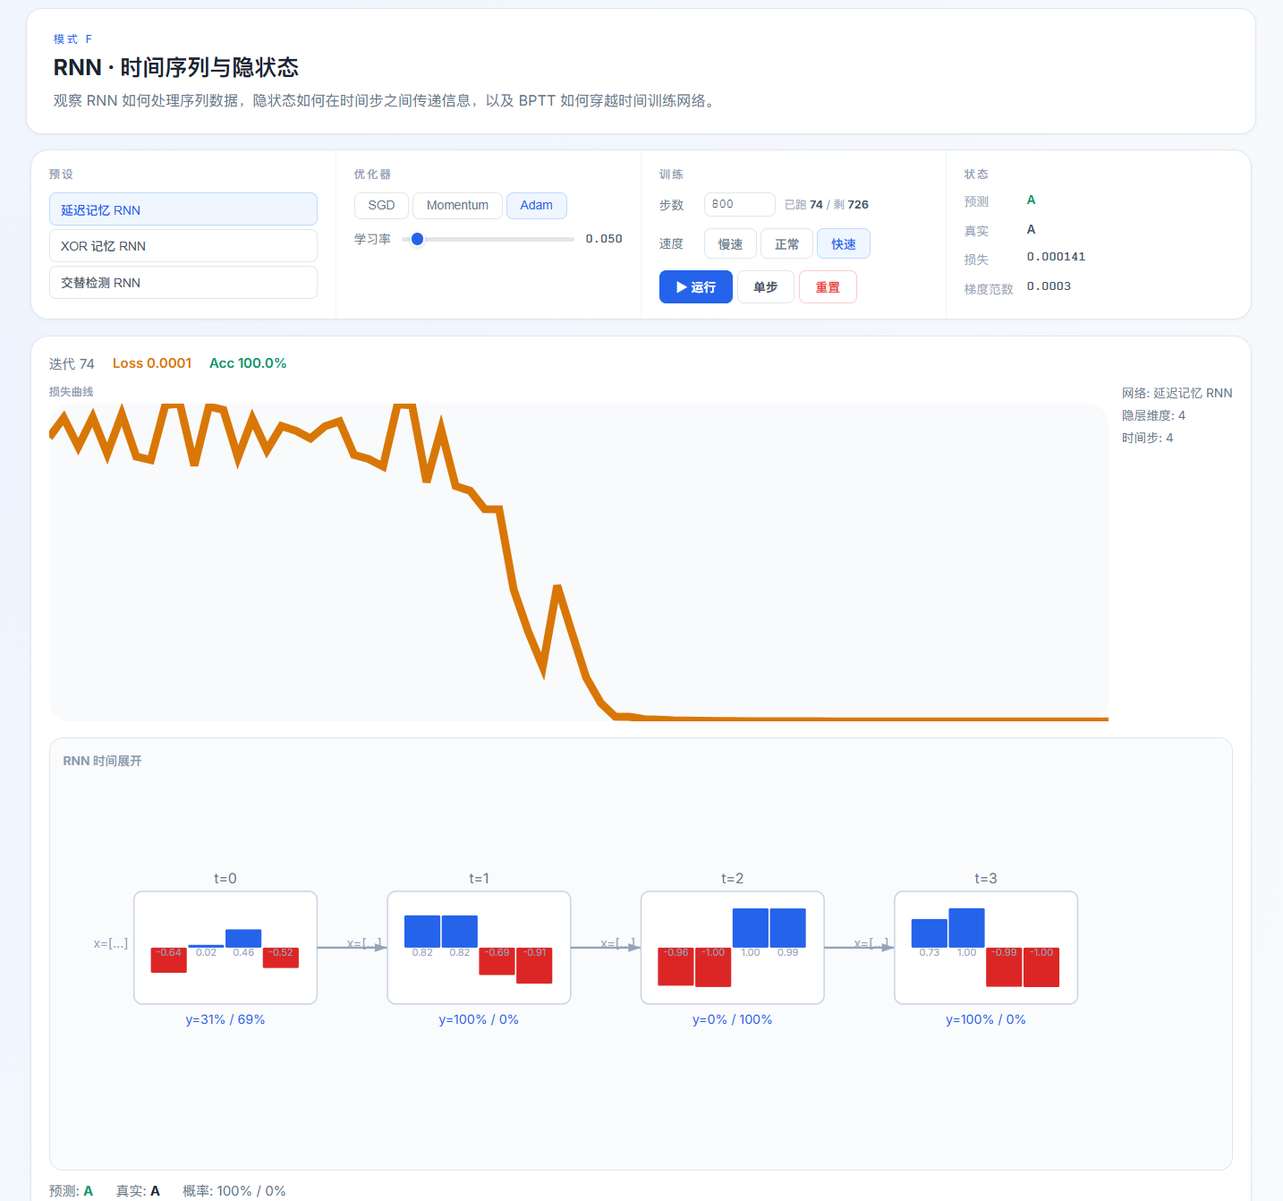
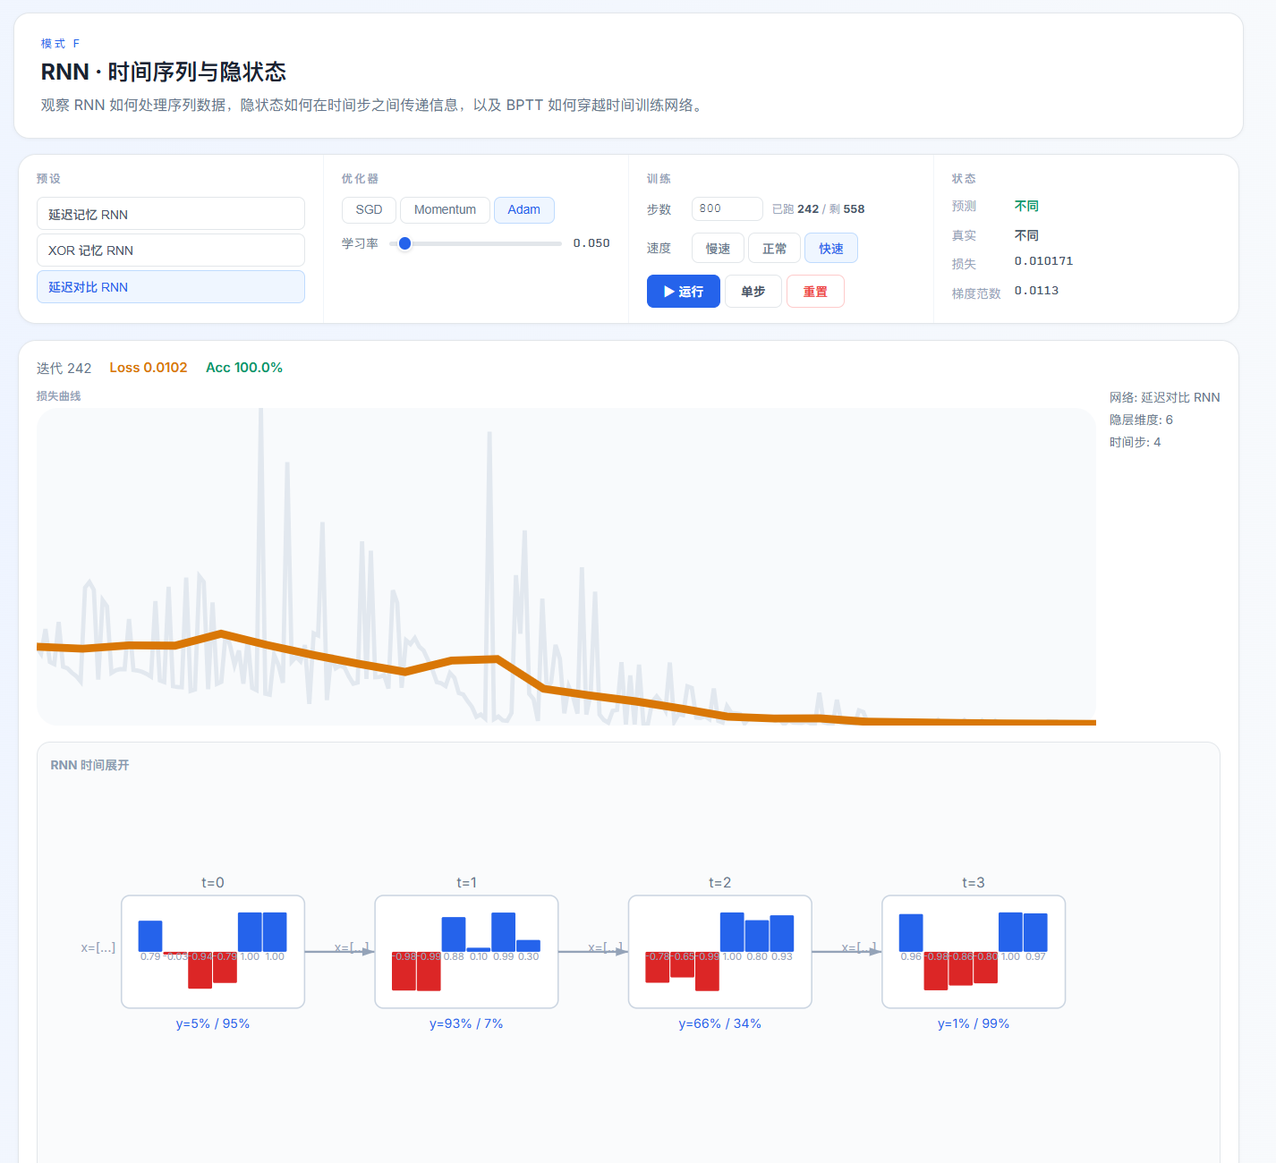
修改了modelf的一些bug

diff --git a/frontend/src/app/modes/mode-f/explainer/services/mode-f-assets.service.ts b/frontend/src/app/modes/mode-f/explainer/services/mode-f-assets.service.ts
@@ -5,43 +5,44 @@ function mkSample(id: number, inputs: number[][], label: number, labelName?: str
   return { id, inputs, label, labelName };
 }
 
+/** One-hot encoding: 1 → [1,0], 0 → [0,1] */
+function enc(v: number): number[] { return v ? [1, 0] : [0, 1]; }
+const BLANK = [0, 0];
+
 // --- synthetic datasets ---
 
+/** Remember a single bit across 3 blank steps */
 function echoDataset(n: number): ModeFSequenceSample[] {
   const samples: ModeFSequenceSample[] = [];
   for (let i = 0; i < n; i++) {
     const v = Math.random() > 0.5 ? 1 : 0;
-    const seq = [[v, 0], [0, 0], [0, 0], [0, 0]];
-    // Task: after seeing input [v,0] at step 0, output class v at step 3
-    // 3 zeros then output. Class = the value seen at step 0.
-    const label = v;
-    samples.push(mkSample(i, seq, label, label === 0 ? 'A' : 'B'));
+    const seq = [enc(v), BLANK, BLANK, BLANK];
+    samples.push(mkSample(i, seq, v, v === 0 ? 'A' : 'B'));
   }
   return samples;
 }
 
-function memoryDataset(n: number): ModeFSequenceSample[] {
+/** XOR of two bits given at adjacent steps */
+function xorMemoryDataset(n: number): ModeFSequenceSample[] {
   const samples: ModeFSequenceSample[] = [];
   for (let i = 0; i < n; i++) {
     const a = Math.random() > 0.5 ? 1 : 0;
     const b = Math.random() > 0.5 ? 1 : 0;
-    const seq = [[a, b], [0, 0], [0, 0], [0, 0]];
-    // Task: classify based on both values seen: a XOR b
-    const label = (a ^ b);
-    samples.push(mkSample(i, seq, label, label === 0 ? '相同' : '不同'));
+    const seq = [enc(a), enc(b), BLANK, BLANK];
+    samples.push(mkSample(i, seq, a ^ b, (a ^ b) === 0 ? '相同' : '不同'));
   }
   return samples;
 }
 
-function alternationDataset(n: number): ModeFSequenceSample[] {
+/** Compare first and last bit across two blank steps — harder than echo */
+function delayMatchDataset(n: number): ModeFSequenceSample[] {
   const samples: ModeFSequenceSample[] = [];
   for (let i = 0; i < n; i++) {
-    const v1 = Math.random() > 0.5 ? 1 : 0;
-    const v2 = Math.random() > 0.5 ? 1 : 0;
-    const seq = [[v1, 0], [v2, 0], [0, 0], [0, 0]];
-    // Task: detect if sequence alternated. 1 if v1 != v2, 0 if v1 == v2
-    const label = v1 !== v2 ? 1 : 0;
-    samples.push(mkSample(i, seq, label, label === 0 ? '相同' : '交替'));
+    const a = Math.random() > 0.5 ? 1 : 0;
+    const b = Math.random() > 0.5 ? 1 : 0;
+    const seq = [enc(a), BLANK, BLANK, enc(b)];
+    const label = a === b ? 1 : 0; // 1 = same, 0 = different
+    samples.push(mkSample(i, seq, label, label === 1 ? '相同' : '不同'));
   }
   return samples;
 }
@@ -49,14 +50,41 @@ function alternationDataset(n: number): ModeFSequenceSample[] {
 @Injectable({ providedIn: 'root' })
 export class ModeFAssetsService {
   readonly datasetPresets: ModeFDatasetPreset[] = [
-    { id: 'echo', name: '延迟记忆', description: '看到第一个输入后，经过几步延迟再输出分类。测试 RNN 能否"记住"早期信息。', samples: echoDataset(200), inputDim: 2, hiddenDim: 4, outputDim: 2, classLabels: ['A', 'B'], maxTimeSteps: 4 },
-    { id: 'memory', name: 'XOR 记忆', description: '前两步各给一个 bit，最后一步判断两个 bit 是否相同（等价于 XOR）', samples: memoryDataset(200), inputDim: 2, hiddenDim: 4, outputDim: 2, classLabels: ['相同', '不同'], maxTimeSteps: 4 },
-    { id: 'alternation', name: '交替检测', description: '前两步各给一个 bit，检测序列是否发生了交替。需要 RNN 比较相邻时间步的输入。', samples: alternationDataset(200), inputDim: 2, hiddenDim: 6, outputDim: 2, classLabels: ['相同', '交替'], maxTimeSteps: 4 },
+    {
+      id: 'echo', name: '延迟记忆',
+      description: '第一步给出一个 bit，经过三步空白后在最后一步输出分类。测试 RNN 能否将信息跨时间步保留。',
+      samples: echoDataset(200), inputDim: 2, hiddenDim: 4, outputDim: 2,
+      classLabels: ['A (bit=0)', 'B (bit=1)'], maxTimeSteps: 4,
+    },
+    {
+      id: 'memory', name: 'XOR 记忆',
+      description: '前两步各给一个 bit，后两步空白，最后一步判断两个 bit 是否相同。测试 RNN 的记忆与组合判断能力。',
+      samples: xorMemoryDataset(200), inputDim: 2, hiddenDim: 8, outputDim: 2,
+      classLabels: ['相同', '不同'], maxTimeSteps: 4,
+    },
+    {
+      id: 'delay-match', name: '延迟对比',
+      description: '第一步和第四步各给一个 bit，中间两步空白。判断首尾 bit 是否相同。需要跨两步记忆首个 bit 再与末尾比较，难度最高。',
+      samples: delayMatchDataset(200), inputDim: 2, hiddenDim: 6, outputDim: 2,
+      classLabels: ['相同', '不同'], maxTimeSteps: 4,
+    },
   ];
 
   readonly networkPresets: ModeFNetworkPreset[] = [
-    { id: 'echo-simple', name: '延迟记忆 RNN', description: '小 RNN 学习延迟记忆', cellType: 'tanh', inputDim: 2, hiddenDim: 4, outputDim: 2, datasetId: 'echo' },
-    { id: 'memory-rnn', name: 'XOR 记忆 RNN', description: 'RNN 学习 XOR 记忆', cellType: 'tanh', inputDim: 2, hiddenDim: 4, outputDim: 2, datasetId: 'memory' },
-    { id: 'alternation-rnn', name: '交替检测 RNN', description: 'RNN 检测序列交替', cellType: 'tanh', inputDim: 2, hiddenDim: 6, outputDim: 2, datasetId: 'alternation' },
+    {
+      id: 'echo-simple', name: '延迟记忆 RNN',
+      description: '小 RNN 学习延迟记忆', cellType: 'tanh',
+      inputDim: 2, hiddenDim: 4, outputDim: 2, datasetId: 'echo',
+    },
+    {
+      id: 'memory-rnn', name: 'XOR 记忆 RNN',
+      description: 'RNN 学习 XOR 记忆', cellType: 'tanh',
+      inputDim: 2, hiddenDim: 8, outputDim: 2, datasetId: 'memory',
+    },
+    {
+      id: 'delay-match-rnn', name: '延迟对比 RNN',
+      description: 'RNN 学习延迟对比', cellType: 'tanh',
+      inputDim: 2, hiddenDim: 6, outputDim: 2, datasetId: 'delay-match',
+    },
   ];
 }

diff --git a/frontend/src/app/shared/teaching/teaching-glossary.ts b/frontend/src/app/shared/teaching/teaching-glossary.ts
@@ -5,7 +5,7 @@ export interface TeachingTerm {
   category: string;
   summary: string;
   details: string[];
-  mode: 'A' | 'B' | 'C' | 'D' | 'E' | 'F';
+  mode: 'A' | 'B' | 'C' | 'D' | 'E' | 'F' | 'E F';
 }
 
 export const MODE_A_TEACHING_TERMS: TeachingTerm[] = [
@@ -604,7 +604,7 @@ export const MODE_E_TEACHING_TERMS: TeachingTerm[] = [
       '它的更新规则简单直接，适合教学中展示”梯度如何驱动参数变化”的基本过程。',
       '缺点是对学习率更敏感，在复杂损失面上也可能收敛较慢。'
     ],
-    mode: 'E'
+    mode: 'E F'
   },
   {
     id: 'optimizer-momentum',
@@ -616,7 +616,7 @@ export const MODE_E_TEACHING_TERMS: TeachingTerm[] = [
       '它能减轻来回震荡的问题，并在较平坦区域保持前进速度。',
       '教学上常把它类比成滚动的小球，帮助理解”为什么它比纯 SGD 更稳”。'
     ],
-    mode: 'E'
+    mode: 'E F'
   },
   {
     id: 'optimizer-adam',
@@ -628,7 +628,7 @@ export const MODE_E_TEACHING_TERMS: TeachingTerm[] = [
       '它会根据一阶和二阶统计量自动调节参数更新尺度，因此通常收敛更快。',
       '教学上适合和 SGD、Momentum 做对比，观察不同优化器对训练曲线的影响。'
     ],
-    mode: 'E'
+    mode: 'E F'
   },
   {
     id: 'backpropagation',
@@ -761,42 +761,6 @@ export const MODE_F_TEACHING_TERMS: TeachingTerm[] = [
     mode: 'F'
   },
   {
-    id: 'optimizer-sgd',
-    title: 'SGD 优化器',
-    aliases: ['SGD', '随机梯度下降'],
-    category: '序列模型',
-    summary: 'SGD 是最基础的优化器，直接沿负梯度方向更新参数。',
-    details: [
-      '在 RNN 训练中，SGD 对学习率更敏感，可能因梯度范数波动而震荡。',
-      '对比 SGD、Momentum、Adam 在 RNN 任务上的表现，可以直观理解优化器的差异。'
-    ],
-    mode: 'F'
-  },
-  {
-    id: 'optimizer-momentum',
-    title: 'Momentum 优化器',
-    aliases: ['Momentum', '动量优化'],
-    category: '序列模型',
-    summary: 'Momentum 在 SGD 基础上累积历史更新方向，帮助参数在梯度震荡的维度上更稳定地前进。',
-    details: [
-      '在 BPTT 中梯度在各时间步之间可能波动较大，Momentum 的惯性有助于平滑更新。',
-      '可以对比观察 Momentum 和纯 SGD 在相同 RNN 任务上的损失曲线差异。'
-    ],
-    mode: 'F'
-  },
-  {
-    id: 'optimizer-adam',
-    title: 'Adam 优化器',
-    aliases: ['Adam', '自适应优化器'],
-    category: '序列模型',
-    summary: 'Adam 结合动量和自适应学习率，对每个参数维护一阶和二阶矩估计，通常收敛更快更稳。',
-    details: [
-      'Adam 对 RNN 中可能出现的梯度范数波动有天然的适应能力，自动调节每个参数的步长。',
-      '在 Mode F 中，可以切换 Adam 观察训练曲线和最终准确率的变化。'
-    ],
-    mode: 'F'
-  },
-  {
     id: 'sequence-classification',
     title: '序列分类',
     aliases: ['sequence classification', '时序分类'],
@@ -804,8 +768,9 @@ export const MODE_F_TEACHING_TERMS: TeachingTerm[] = [
     summary: '序列分类任务要求模型在看完整个输入序列后，判断序列属于哪一类别。',
     details: [
       '在 Mode F 中，RNN 在最后一个时间步输出类别概率，用 softmax + 交叉熵计算损失。',
-      '例如"延迟记忆"任务需要模型记住第 0 步看到的 bit，经过几步延迟后正确分类。',
-      '这考验 RNN 的长期记忆能力——早期的关键信息能否被隐状态保留到最后。'
+      '延迟记忆：记住第一步的值，经历几步空白后输出分类——考察 RNN 的长期记忆',
+      'XOR 记忆：前两步各给一个 bit，判断两个 bit 是否相同——考察组合判断',
+      '延迟对比：第一步和第四步各给一个 bit，判断首尾是否相同——需要跨两步记忆，难度最高'
     ],
     mode: 'F'
   },

diff --git a/frontend/src/app/modes/mode-f/explainer/components/overview/mode-f-overview.component.ts b/frontend/src/app/modes/mode-f/explainer/components/overview/mode-f-overview.component.ts
@@ -1,12 +1,13 @@
 import { Component, computed } from '@angular/core';
 import { CommonModule } from '@angular/common';
+import { TeachingTermDirective } from '@shared/teaching/teaching-term.directive';
 import { ModeFStateService } from '../../services/mode-f-state.service';
 
 const CELL_W = 130, CELL_H = 80, GAP = 50, PAD = 50;
 
 @Component({
   selector: 'app-mode-f-overview',
-  imports: [CommonModule],
+  imports: [CommonModule, TeachingTermDirective],
   templateUrl: './mode-f-overview.component.html',
   styleUrl: './mode-f-overview.component.css',
 })
@@ -27,8 +28,20 @@ export class ModeFOverviewComponent {
   readonly svgW = computed(() => Math.max(this.timeSteps() * (CELL_W + GAP) + PAD * 2, 600));
   readonly svgH = computed(() => this.hiddenDim() * 22 + CELL_H + PAD * 2);
 
-  // Loss curve
-  readonly lossPoints = computed(() => { const pts = this.lossHistory(); if (pts.length < 2) return ''; const max = Math.max(...pts.map(p => p.loss), 0.1); return pts.map((p, i) => { const x = (i / Math.max(pts.length - 1, 1)) * 200; const y = 60 - (p.loss / max) * 60; return `${x},${y}`; }).join(' '); });
+  // Loss curves: raw (faint) + smoothed avg (solid), shared scale
+  readonly rawLossPoints = computed(() => {
+    const raw = this.lossHistory(), avg = this.avgLossHistory();
+    if (raw.length < 2) return '';
+    const max = Math.max(...raw.map(p => p.loss), ...avg.map(p => p.loss), 0.1);
+    return raw.map((p, i) => { const x = (i / Math.max(raw.length - 1, 1)) * 200; const y = 60 - (p.loss / max) * 60; return `${x},${y}`; }).join(' ');
+  });
+  readonly avgLossPoints = computed(() => {
+    const pts = this.avgLossHistory();
+    if (pts.length < 2) return '';
+    const all = this.lossHistory();
+    const max = Math.max(...all.map(p => p.loss), ...pts.map(p => p.loss), 0.1);
+    return pts.map((p, i) => { const x = (i / Math.max(pts.length - 1, 1)) * 200; const y = 60 - (p.loss / max) * 60; return `${x},${y}`; }).join(' ');
+  });
 
   cellX(t: number): number { return PAD + t * (CELL_W + GAP); }
   cellY(): number { return PAD + 30; }

diff --git a/frontend/src/app/modes/mode-f/explainer/components/overview/mode-f-overview.component.html b/frontend/src/app/modes/mode-f/explainer/components/overview/mode-f-overview.component.html
@@ -11,19 +11,20 @@
       <h4>损失曲线</h4>
       <svg viewBox="0 0 200 60" class="mini-svg">
         <rect width="200" height="60" fill="#f8fafc" rx="4"/>
-        @if (lossPoints()) { <polyline [attr.points]="lossPoints()" fill="none" stroke="#d97706" stroke-width="1.5"/> }
+        @if (rawLossPoints()) { <polyline [attr.points]="rawLossPoints()" fill="none" stroke="#cbd5e1" stroke-width="0.8" opacity="0.5"/> }
+        @if (avgLossPoints()) { <polyline [attr.points]="avgLossPoints()" fill="none" stroke="#d97706" stroke-width="1.5"/> }
       </svg>
     </div>
     <div class="mini-info">
       <span>网络: {{ meta()?.name ?? '—' }}</span>
       <span>隐层维度: {{ hiddenDim() }}</span>
-      <span>时间步: {{ timeSteps() }}</span>
+      <span appTeachingTerm="bptt">时间步: {{ timeSteps() }}</span>
     </div>
   </div>
 
   <!-- Unrolled RNN -->
   <div class="rnn-card">
-    <h4>RNN 时间展开</h4>
+    <h4 appTeachingTerm="rnn-cell">RNN 时间展开</h4>
     <div class="rnn-scroll">
       <svg [attr.viewBox]="'0 0 ' + svgW() + ' ' + svgH()" class="rnn-svg">
         @for (t of [].constructor(timeSteps()); track t; let ti = $index) {

diff --git a/course-presentation/index.html b/course-presentation/index.html
@@ -833,7 +833,7 @@ if (room.sessions.isEmpty()) {
             <tbody>
               <tr><td>延迟记忆</td><td>记住第一步 bit，延迟 3 步后分类</td></tr>
               <tr><td>XOR 记忆</td><td>前两步各给 bit，判断是否相同</td></tr>
-              <tr><td>交替检测</td><td>检测前两步是否交替变化</td></tr>
+              <tr><td>延迟对比</td><td>记住首位 bit，隔两步后与末位比较</td></tr>
             </tbody>
           </table>
         </div>
@@ -871,7 +871,7 @@ if (room.sessions.isEmpty()) {
           <div class="label">训练监控</div>
           <ul class="dense-list">
             <li>单步 / 连续训练模式可选，连续模式到达设定步数自动停止</li>
-            <li>实时损失曲线 + 整体准确率每 25 步评估一次</li>
+            <li>实时损失曲线 + 整体准确率每 10 步评估一次</li>
             <li>当前迭代状态：预测类别、真实类别、损失值</li>
             <li>三个预设数据集各 200 个 4 步序列样本，切换预设自动重置</li>
           </ul>

diff --git a/frontend/src/app/modes/mode-f/explainer/components/detail-panel/mode-f-detail-panel.component.html b/frontend/src/app/modes/mode-f/explainer/components/detail-panel/mode-f-detail-panel.component.html
@@ -16,7 +16,7 @@
   <!-- Gradient Norm -->
   @if (gradientNorm(); as gn) {
     <div class="detail-card">
-      <h4>梯度范数</h4>
+      <h4 appTeachingTerm="gradient-norm">梯度范数</h4>
       <div class="grad-row">
         <div class="grad-bar-track">
           <div class="grad-bar-fill" [style.width.%]="min(gn * 10, 100)" [style.background]="gradColor(gn)"></div>
@@ -29,7 +29,7 @@
   <!-- Hidden state per time step -->
   @if (hiddenStates().length > 0) {
     <div class="detail-card">
-      <h4>隐状态向量 (h_t)</h4>
+      <h4 appTeachingTerm="hidden-state">隐状态向量 (h_t)</h4>
       <div class="hidden-list">
         @for (hs of hiddenStates(); track tIdx; let tIdx = $index) {
           <div class="hidden-time-row">

diff --git a/frontend/src/app/modes/mode-f/explainer/services/mode-f-state.service.ts b/frontend/src/app/modes/mode-f/explainer/services/mode-f-state.service.ts
@@ -58,7 +58,7 @@ export class ModeFStateService {
     this.currentIteration.set(itr + 1);
     const h = [...this.stepHistory(), result]; if (h.length > 500) h.shift(); this.stepHistory.set(h);
     const lh = [...this.lossHistory(), { iteration: itr, loss: result.loss }]; if (lh.length > 500) lh.shift(); this.lossHistory.set(lh);
-    if ((itr + 1) % 25 === 0) this.computeAvg();
+    if ((itr + 1) % 10 === 0) this.computeAvg();
     const next = Math.floor(Math.random() * dataset.length); this.currentSampleIndex.set(next);
   }
 

diff --git a/frontend/src/app/modes/mode-f/explainer/components/detail-panel/mode-f-detail-panel.component.ts b/frontend/src/app/modes/mode-f/explainer/components/detail-panel/mode-f-detail-panel.component.ts
@@ -1,10 +1,11 @@
 import { Component, computed } from '@angular/core';
 import { CommonModule } from '@angular/common';
+import { TeachingTermDirective } from '@shared/teaching/teaching-term.directive';
 import { ModeFStateService } from '../../services/mode-f-state.service';
 
 @Component({
   selector: 'app-mode-f-detail-panel',
-  imports: [CommonModule],
+  imports: [CommonModule, TeachingTermDirective],
   templateUrl: './mode-f-detail-panel.component.html',
   styleUrl: './mode-f-detail-panel.component.css',
 })

diff --git a/frontend/src/app/modes/mode-f/explainer/components/control-panel/mode-f-control-panel.component.html b/frontend/src/app/modes/mode-f/explainer/components/control-panel/mode-f-control-panel.component.html
@@ -11,6 +11,7 @@
             (click)="selectPreset(preset.id)"
             [title]="preset.description"
             [disabled]="isRunning()"
+            [appTeachingTerm]="'sequence-classification'"
           >{{ preset.name }}</button>
         }
       </div>

diff --git a/docs/development-document.md b/docs/development-document.md
@@ -1488,13 +1488,15 @@ interface ModeEDecisionBoundary { resolution: number; xMin: number; xMax: number
 
 **文件**：`mode-f-assets.service.ts`
 
-| 数据集 ID | 任务描述 | 序列长度 | 输入维度 | 建议 hiddenDim | 样本数 |
+| 数据集 ID | 任务描述 | 序列长度 | 输入维度 | hiddenDim | 样本数 |
 | --- | --- | --- | --- | --- | --- |
 | `echo` | 延迟记忆：记住第 0 步的 bit，第 3 步输出分类 | 4 | 2 | 4 | 200 |
-| `memory` | XOR 记忆：第 0-1 步各给一个 bit，判断是否相同 | 4 | 2 | 4 | 200 |
-| `alternation` | 交替检测：检测前两个 bit 是否发生了交替变化 | 4 | 2 | 6 | 200 |
+| `memory` | XOR 记忆：第 0-1 步各给一个 bit，判断是否相同 | 4 | 2 | 8 | 200 |
+| `delay-match` | 延迟对比：第 0 步和最后一步各给一个 bit，判断是否相同 | 4 | 2 | 6 | 200 |
 
-输入采用 one-hot 编码：`[bit_value, 0]` 表示二进制值。每个数据集由一个私有生成函数构建（`echoDataset` / `memoryDataset` / `alternationDataset`），在服务构造时一次性生成并存入 `ModeFDatasetPreset.samples`。
+三个数据集难度递进：echo 只需记住一个 bit，memory 需要同时记住两个 bit 并做 XOR 判断，delay-match 需要跨两步空白保持首个 bit 再与末尾比较。memory 的 hiddenDim=8 是因为 4 维隐状态受 tanh 初始化影响容易衰减到零，提高到 8 提供冗余。
+
+输入采用 one-hot 编码：`[1, 0]` = bit 1，`[0, 1]` = bit 0，`[0, 0]` = 空白输入（无信息）。每个数据集由一个私有生成函数构建（`echoDataset` / `xorMemoryDataset` / `delayMatchDataset`），在服务构造时一次性生成并存入 `ModeFDatasetPreset.samples`。
 
 #### 8.4.3 状态管理
 
@@ -1502,11 +1504,11 @@ interface ModeEDecisionBoundary { resolution: number; xMin: number; xMax: number
 
 相比模式 E，状态管理更简——无子步骤动画系统、无决策边界、无激活函数切换、无损失曲线保存对比。训练步是原子的，单步/连续模式直接调用 `engine.trainStep()`。
 
-`computeAvg()` 每 25 步遍历全部样本做纯前向推理（不执行反向传播），计算平均损失和整体准确率。`loadPreset()` 创建全新的 `ModeFRnnEngine` 实例（确保权重完全重置），模式 E 则复用同一个引擎实例并调用 `JSON.parse(JSON.stringify(...))` 深拷贝层参数恢复初始权重。
+`computeAvg()` 每 10 步遍历全部样本做纯前向推理（不执行反向传播），计算平均损失和整体准确率。`loadPreset()` 创建全新的 `ModeFRnnEngine` 实例（确保权重完全重置），模式 E 则复用同一个引擎实例并调用 `JSON.parse(JSON.stringify(...))` 深拷贝层参数恢复初始权重。
 
 #### 8.4.4 可视化组件
 
-- **Overview**：SVG 时间展开图，每个时间步渲染为一个 Cell 方框（`CELL_W=130, CELL_H=80`），Cell 之间用带箭头的连线串联。Cell 内部为隐状态向量的彩色条形图（蓝=正激活、红=负激活、灰=零），下方标注 softmax 输出概率。左侧损失曲线小图显示单步/平滑损失变化。
+- **Overview**：SVG 时间展开图，每个时间步渲染为一个 Cell 方框（`CELL_W=130, CELL_H=80`），Cell 之间用带箭头的连线串联。Cell 内部为隐状态向量的彩色条形图（蓝=正激活、红=负激活、零值不显示），下方标注 softmax 输出概率。损失曲线小图同时渲染原始单步损失（灰色虚线）和每 10 步平滑平均损失（橙色实线），共用同一纵轴刻度。
 - **Control Panel**：预设选择、优化器切换、学习率滑块、步数输入、速度按钮和训练状态显示。训练进行中禁用配置控件。
 - **Detail Panel**：显示权重矩阵形状一览（W_xh/W_hh/W_hy 及偏置维度）、选中时间步的隐状态向量值、梯度范数条形图、每步输出概率分布。
 
@@ -1516,11 +1518,11 @@ interface ModeEDecisionBoundary { resolution: number; xMin: number; xMax: number
 
 **MODE_E_TEACHING_TERMS**（9 项，"训练与优化" 分类）：`optimizer-sgd`（SGD 优化器）、`optimizer-momentum`（Momentum 优化器）、`optimizer-adam`（Adam 优化器）、`backpropagation`（反向传播）、`gradient-descent`（梯度下降）、`learning-rate`（学习率）、`activation-relu`（ReLU）、`activation-sigmoid`（Sigmoid）、`activation-tanh`（Tanh）。每个术语包含公式、导数、决策边界特征和适用场景说明。
 
-**MODE_F_TEACHING_TERMS**（8 项，"序列模型" 分类）：`rnn-cell`（RNN 单元）、`bptt`（BPTT）、`hidden-state`（隐状态）、`gradient-vanishing`（梯度消失）、`optimizer-sgd/momentum/adam`（优化器术语复用）、`sequence-classification`（序列分类）。
+**MODE_F_TEACHING_TERMS**（5 项，"序列模型" 分类）：`rnn-cell`（RNN 单元）、`bptt`（BPTT）、`hidden-state`（隐状态）、`gradient-vanishing`（梯度消失）、`sequence-classification`（序列分类）。Mode F 的优化器术语不再重复添加条目，改为复用 Mode E 的 SGD/Momentum/Adam 条目（`mode` 字段设为 `'E F'` 表示共享）。Mode B 的 `gradient-norm`（梯度范数）也被 Mode F 复用。
 
-`TeachingTerm` 接口的 `mode` 字段类型已从 `'A' | 'C' | 'D'` 扩展为 `'A' | 'B' | 'C' | 'D' | 'E' | 'F'`，合并后的 `TEACHING_TERMS` 数组通过 `findTeachingTerm(id)` 全局查找。
+`TeachingTerm` 接口的 `mode` 字段类型为 `'A' | 'B' | 'C' | 'D' | 'E' | 'F' | 'E F'`，支持多模式共享。合并后的 `TEACHING_TERMS` 数组通过 `findTeachingTerm(id)` 全局查找。
 
-模式 E 控制面板的优化器按钮和激活函数按钮通过 `[appTeachingTerm]` 指令绑定到对应术语 ID，点击 "?" 浮标激活教学模式后按钮变为浅绿高亮，点击跳转到 `/teaching#termId`。
+模式 E/F 控制面板的优化器按钮和激活函数按钮通过 `[appTeachingTerm]` 指令绑定到对应术语 ID，点击 "?" 浮标激活教学模式后按钮变为浅绿高亮，点击跳转到 `/teaching#termId`。Mode F 的 Overview（RNN 时间展开标题→rnn-cell、时间步→bptt）和 DetailPanel（隐状态向量→hidden-state、梯度范数→gradient-norm）也挂载了术语绑定。
 
 ### 8.6 工程难点
 
